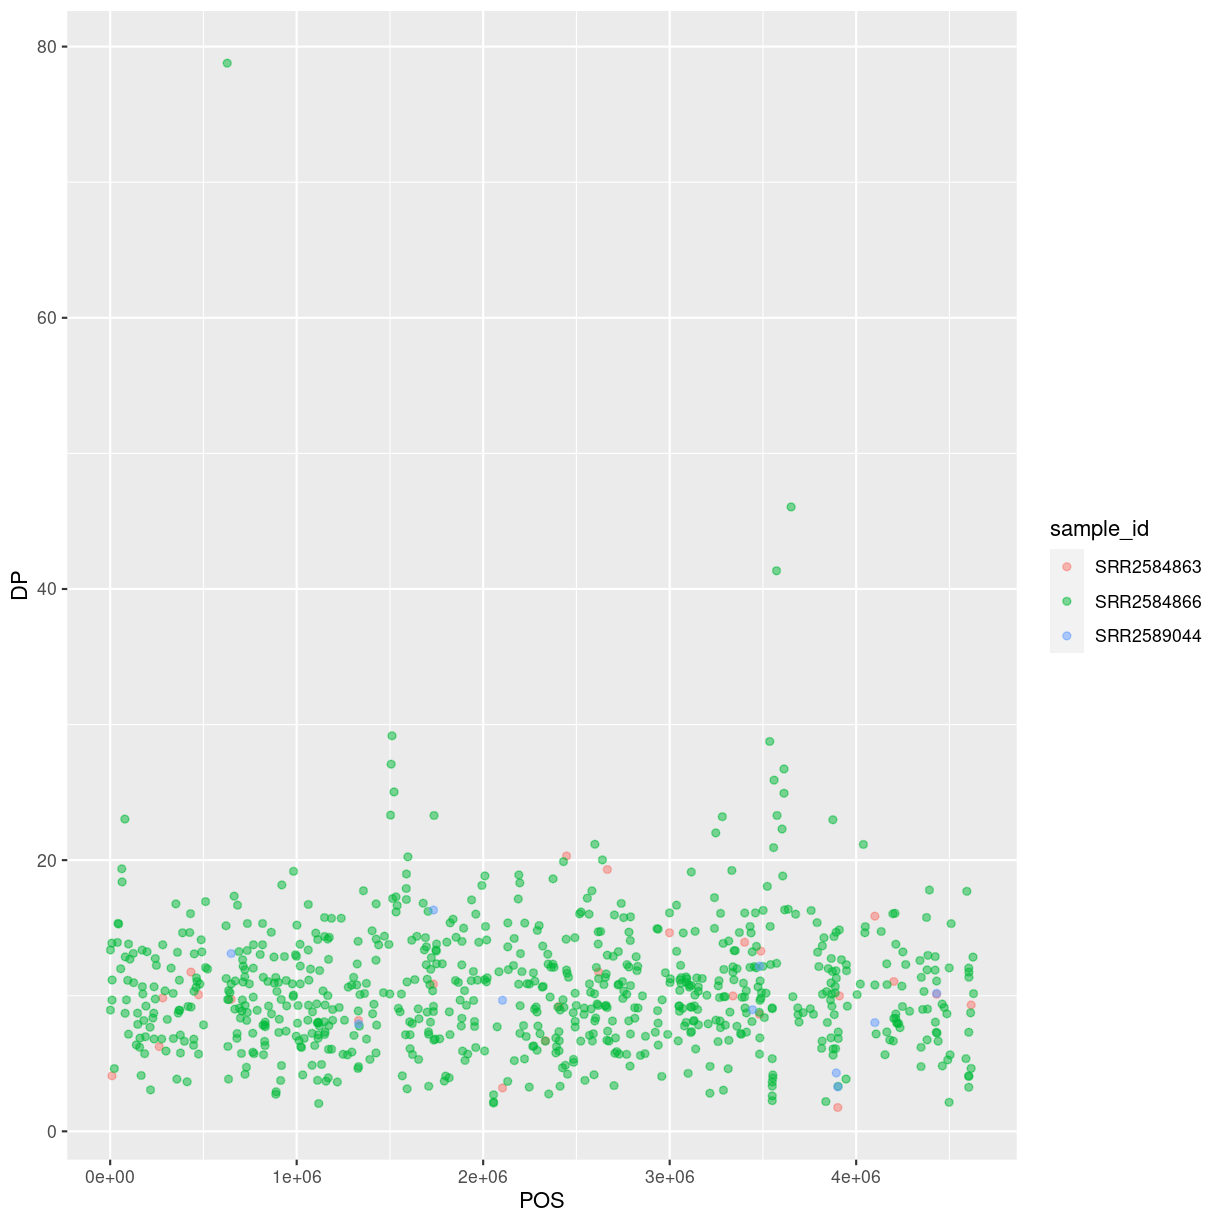
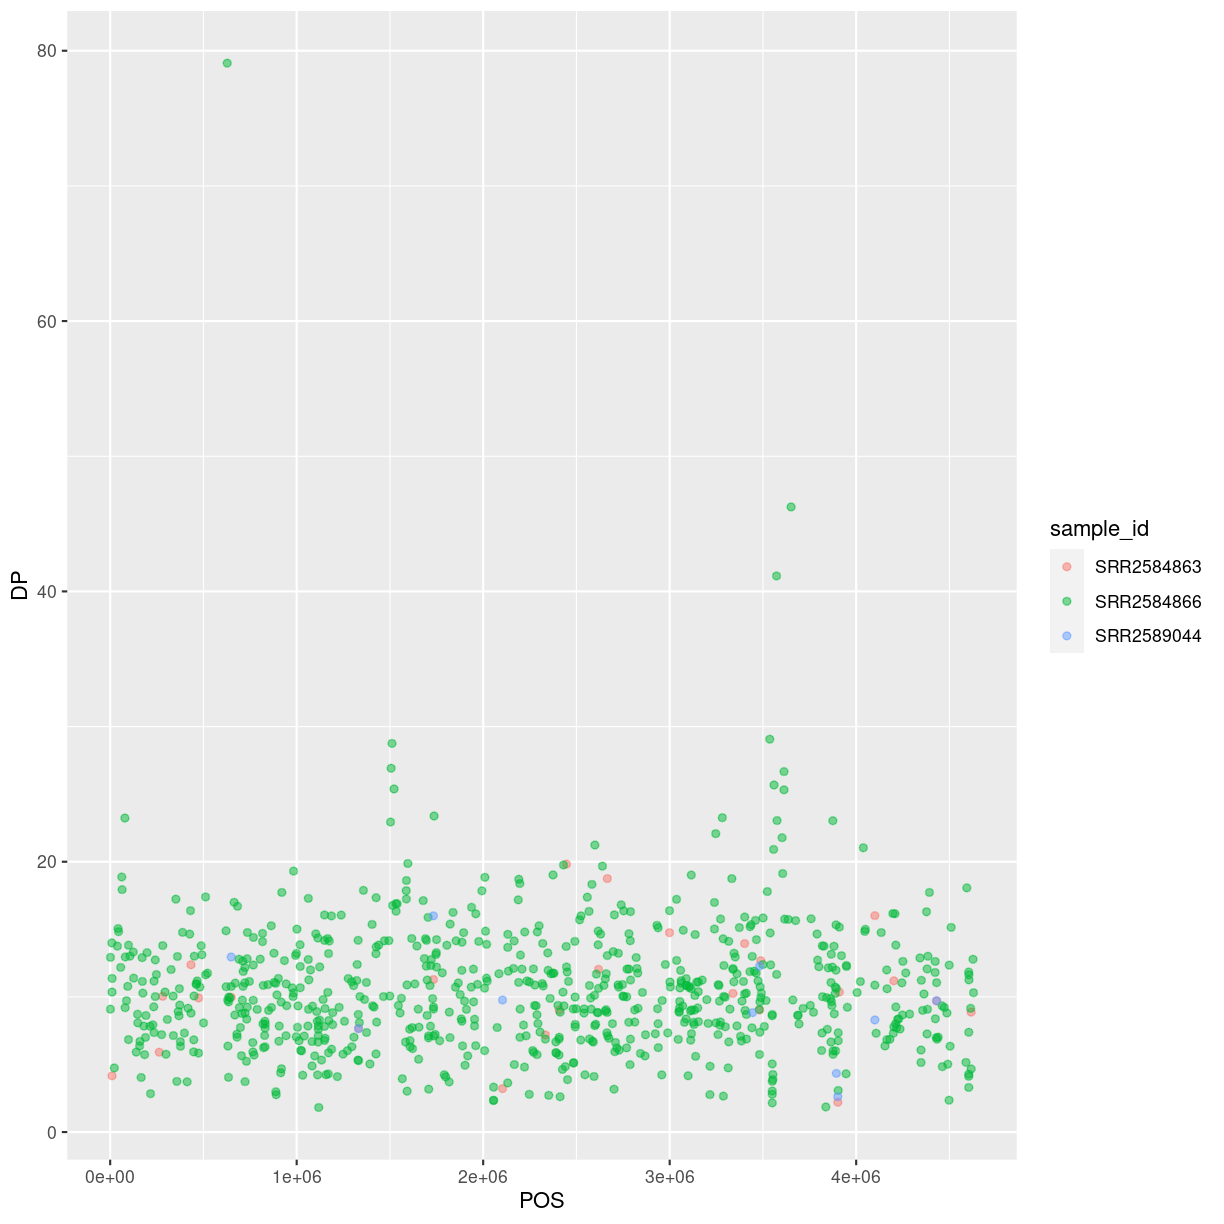
Added density

diff --git a/_episodes/05-data-visualization.md b/_episodes/05-data-visualization.md
@@ -360,7 +360,8 @@ This plot tells us that the most of frequent `DP` (read depth) for the variants 
 >> 
 >> ~~~
 >> ggplot(data = variants, aes(x = DP, fill = sample_id)) +
->>    geom_density(alpha = 0.5)
+>>    geom_density(alpha = 0.5) +
+>>    theme_bw()
 >> ~~~
 >> {: .language-r}
 >> 
